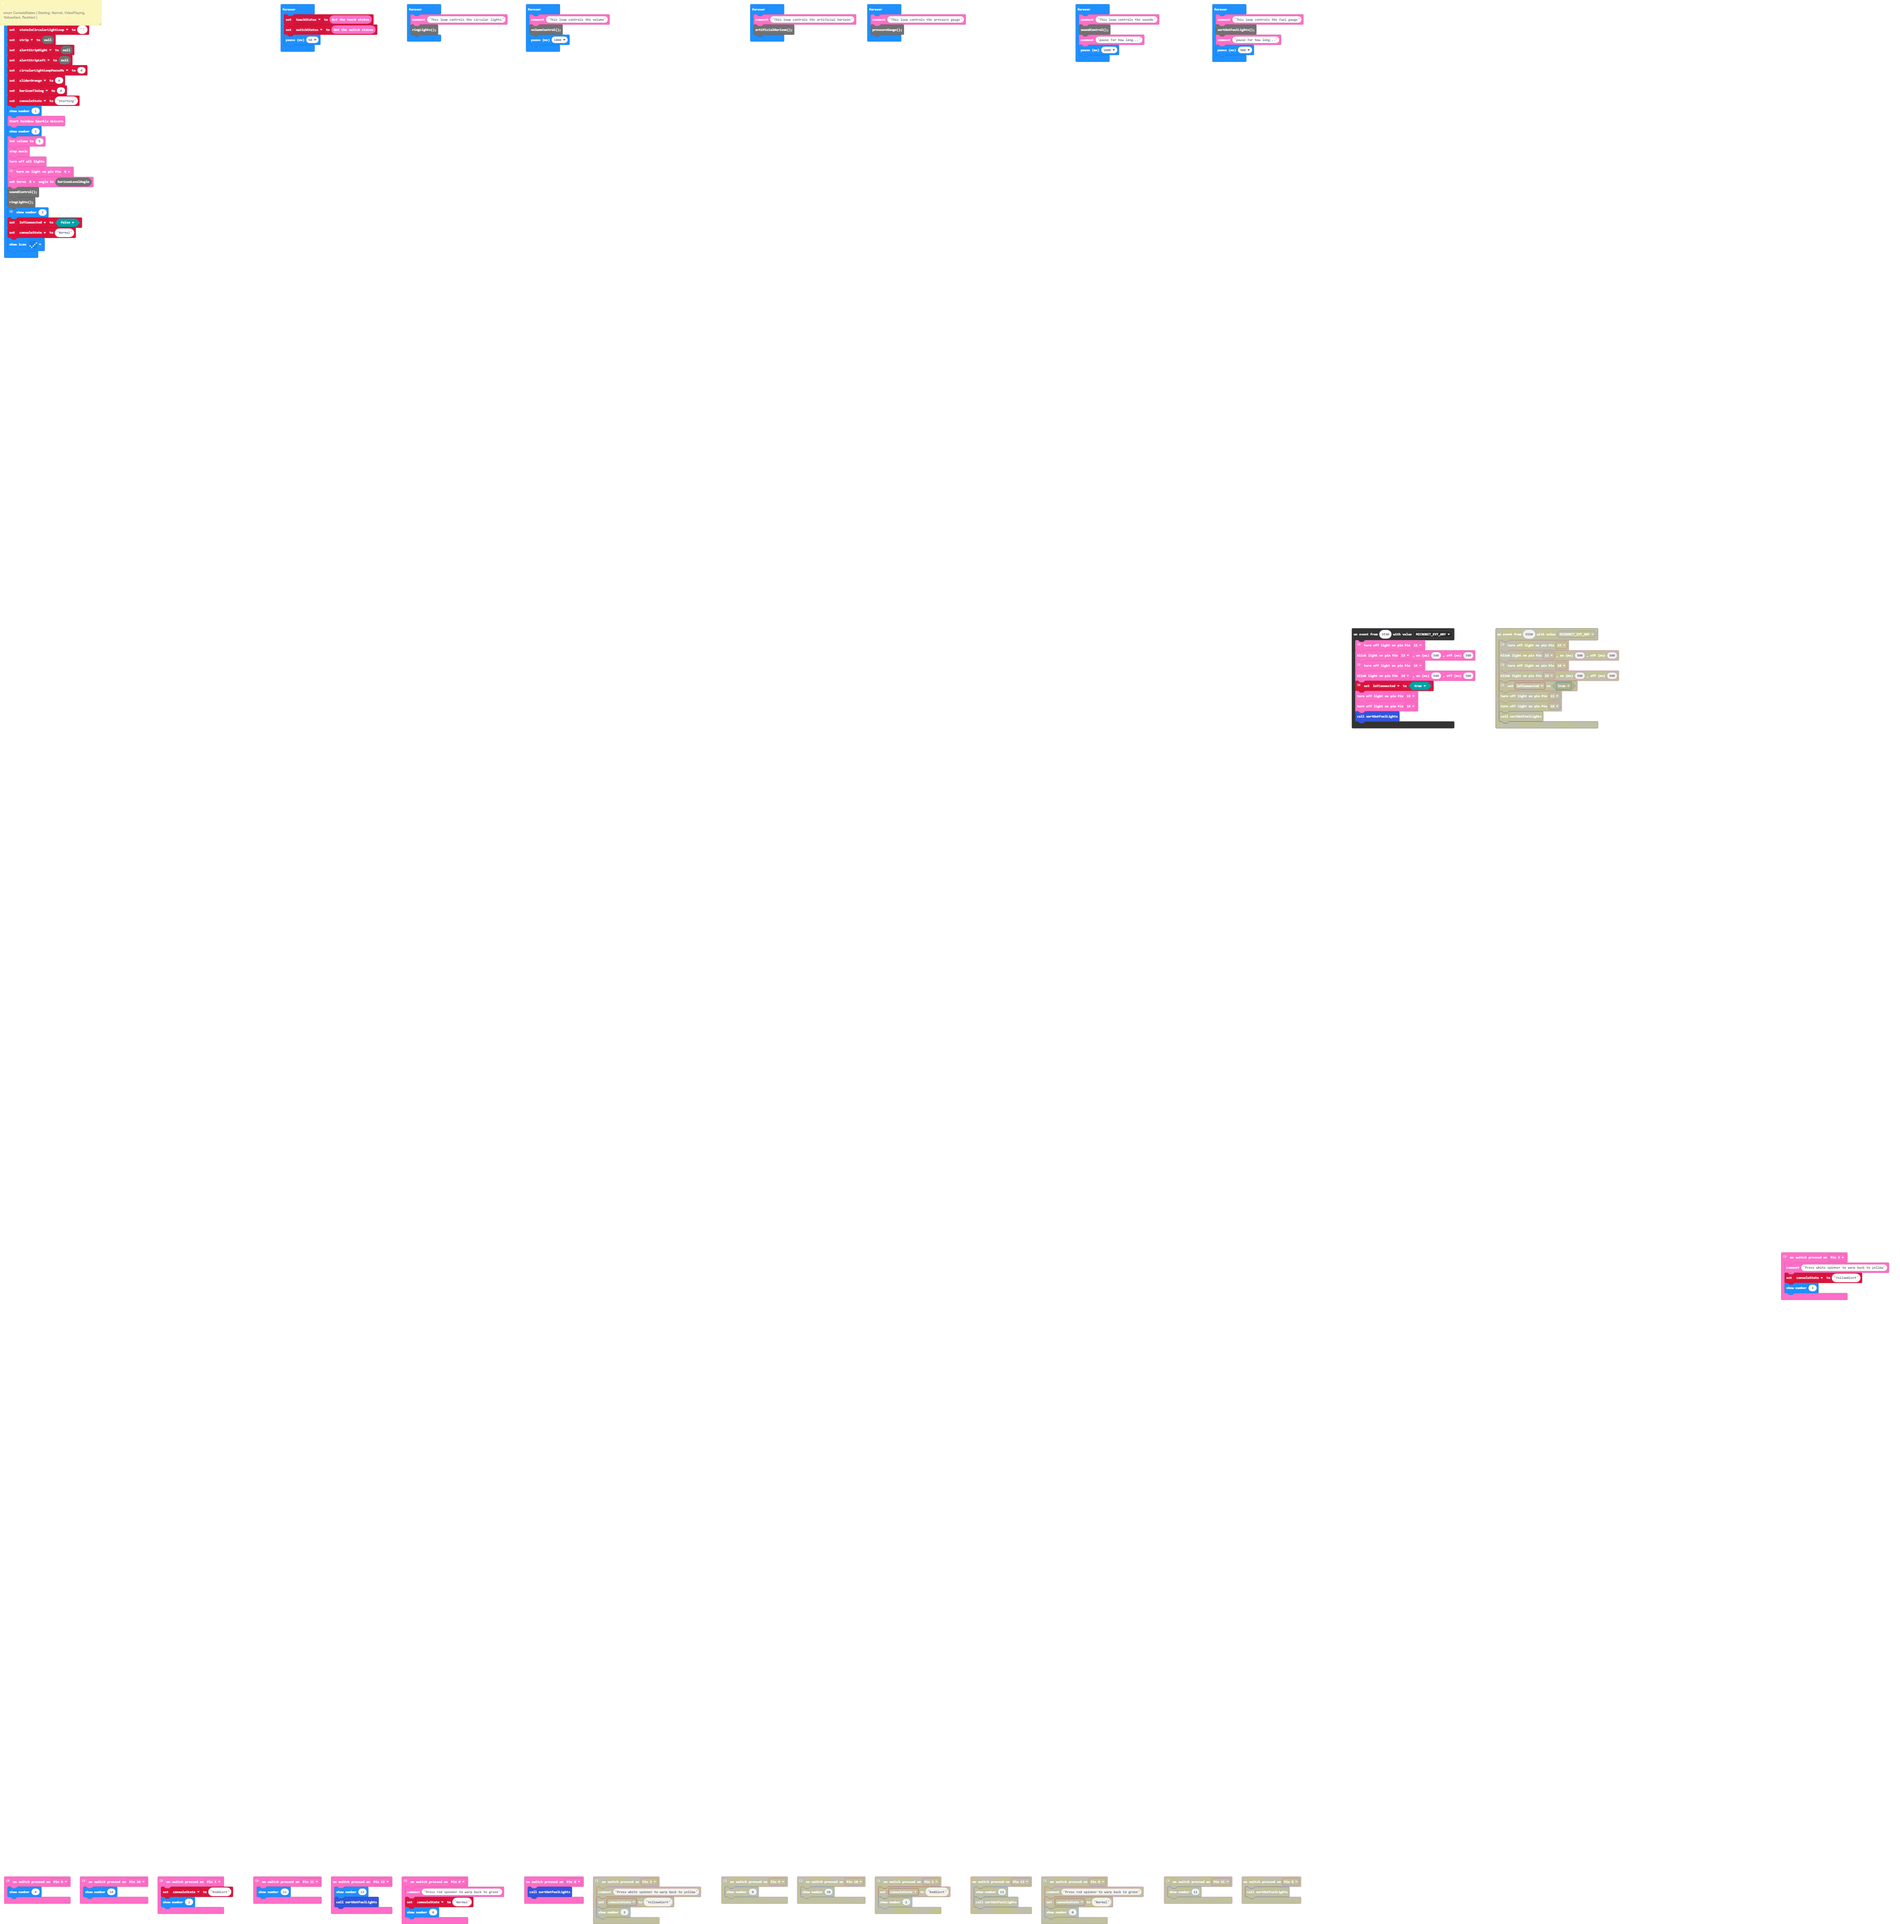
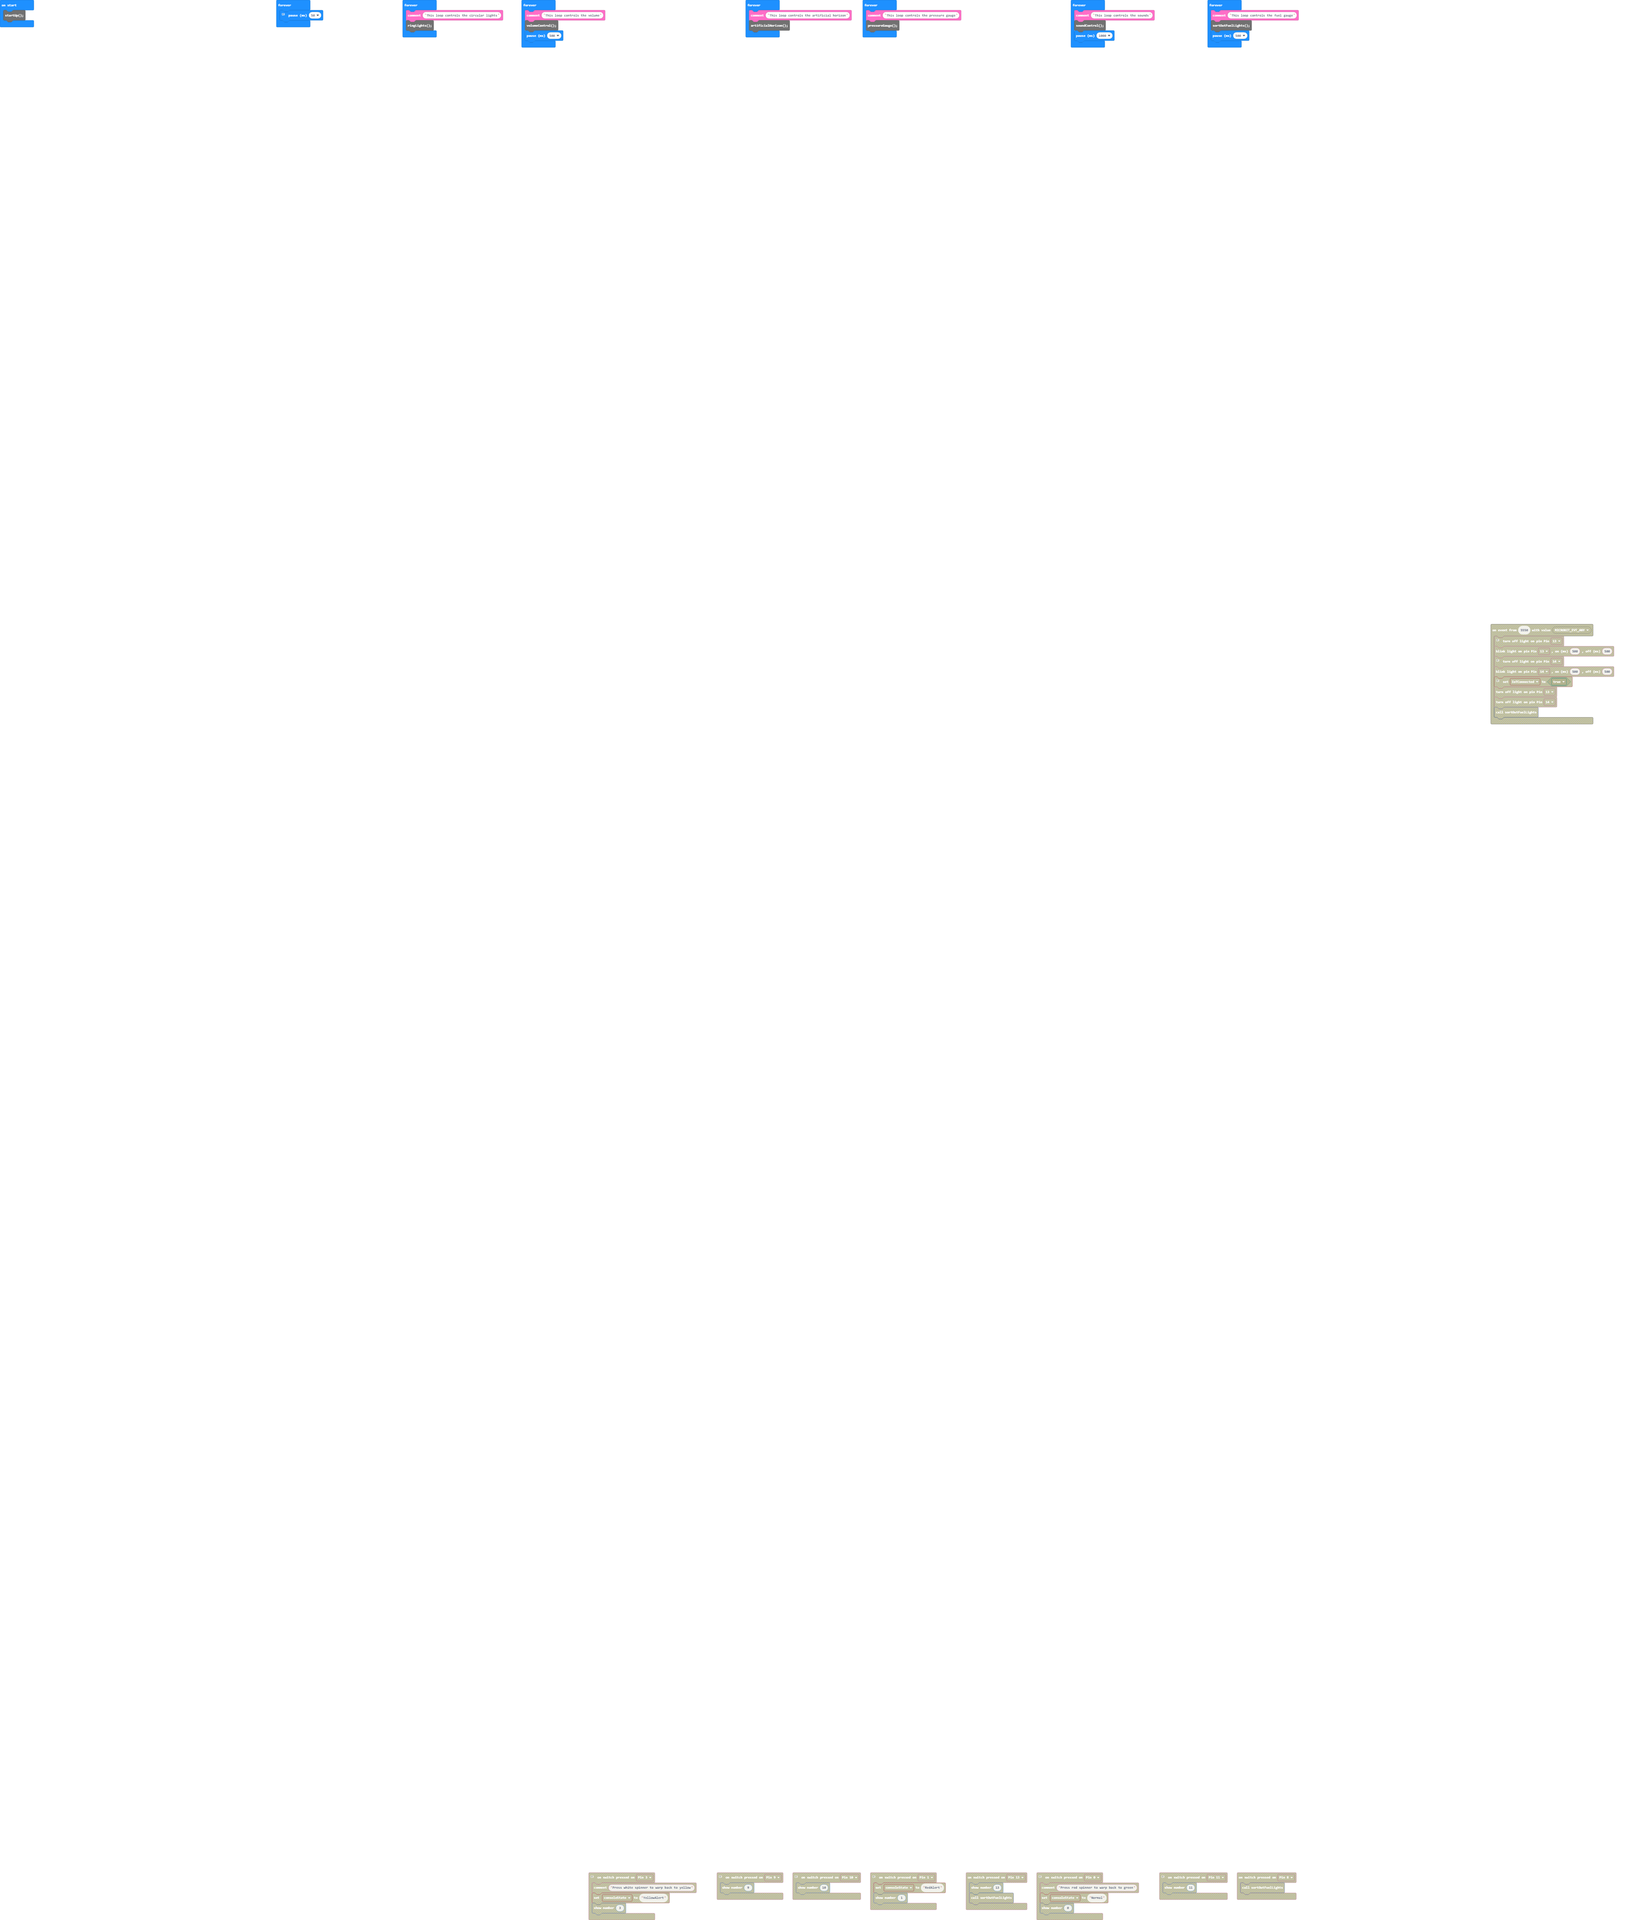
Update main.blocks, main.ts, pressureGauge.ts, ringLights.ts, volume.ts, buttons.ts, start.ts

diff --git a/main.ts b/main.ts
@@ -2,34 +2,41 @@
 startUp();
 
 basic.forever(function () {
-    touchStatus = RainbowSparkleUnicorn.Touch.getTouchStates()
-    switchStatus = RainbowSparkleUnicorn.Switch.getSwitchStates()
-    basic.pause(50)
-})
-basic.forever(function () {
-    RainbowSparkleUnicorn.comment("This loop controls the circular lights")
-    ringLights();
-})
-basic.forever(function () {
     RainbowSparkleUnicorn.comment("This loop controls the volume")
     volumeControl();
-    basic.pause(1000)
+    basic.pause(100)
 })
+
 basic.forever(function () {
     RainbowSparkleUnicorn.comment("This loop controls the artificial horizon")
     artificialHorizon();
 })
-basic.forever(function () {
+
+basic.forever(function() {
     RainbowSparkleUnicorn.comment("This loop controls the pressure gauge")
     pressureGauge();
+    basic.pause(1000);
 })
+
 basic.forever(function () {
     RainbowSparkleUnicorn.comment("This loop controls the sounds")
     soundControl();
     basic.pause(1000)
 })
+
 basic.forever(function () {
     RainbowSparkleUnicorn.comment("This loop controls the fuel gauge")
     sortOutFuelLights();
     basic.pause(500)
+})
+
+basic.forever(function () {
+    //touchStatus = RainbowSparkleUnicorn.Touch.getTouchStates()
+    //switchStatus = RainbowSparkleUnicorn.Switch.getSwitchStates()
+    basic.pause(50)
+})
+
+basic.forever(function () {
+    RainbowSparkleUnicorn.comment("This loop controls the circular lights")
+    ringLights();
 })

diff --git a/volume.ts b/volume.ts
@@ -1,11 +1,33 @@
 // Add your code here
+let volumeMapped = 0
 
-function volumeControl(){
-    sliderOrange = RainbowSparkleUnicorn.Controls.Slider1()
-    // setVolumes()
-    serial.writeValue("sliderOrange", sliderOrange)
-    // RainbowSparkleUnicorn.Sound.setVolume(Math.map(100 - sliderOrange, 0, 100, 0, 30))
-    // music.setVolume(Math.map(sliderOrange, 0, 100, 0, 255))
-
-    
+function volumeControl() {
+    let volume = 1023 - pins.analogReadPin(AnalogPin.P0);
+    let tempVol = Math.round(Math.map(volume, 0, 1023, 0, 30));
+    if (volumeMapped != tempVol) {
+        volumeMapped = tempVol;
+        music.setVolume(volumeMapped);
+        serial.writeValue("vol", volumeMapped);
+    }
 }
+
+// let slider = 0
+// let volume = 0
+// RainbowSparkleUnicorn.start()
+// RainbowSparkleUnicorn.Controls.dial1(128)
+// RainbowSparkleUnicorn.Controls.dial2(128)
+// basic.forever(function () {
+//     let volumeMapped = 0
+//     volume = 1023 - pins.analogReadPin(AnalogPin.P0)
+//     slider = pins.analogReadPin(AnalogPin.P2)
+//     // led.plotBarGraph(
+//     // slider,
+//     // 1023
+//     // )
+//     serial.writeValue("v", volume)
+//     // serial.writeValue("s", slider)
+//     volumeMapped = Math.round(Math.map(volume, 0, 1023, 0, 30))
+//     // basic.showNumber(volumeMapped)
+//     serial.writeValue("vol", volumeMapped)
+//     basic.pause(100);
+// })

diff --git a/pressureGauge.ts b/pressureGauge.ts
@@ -1,12 +1,11 @@
 // Add your code here
 
 function pressureGauge() {
-    if (consoleState == "Normal") {
-        RainbowSparkleUnicorn.comment("232 is 3v on to 0-255 scale")
-        RainbowSparkleUnicorn.Controls.dial1(randint(0, 232))
-        basic.pause(1000)
+
+    if (consoleState == "Normal" || consoleState == "Starting") {
+        RainbowSparkleUnicorn.comment("232 is 3v on to 0-255 scale (3.3v)")
+        RainbowSparkleUnicorn.Controls.dial2(randint(0, 232))
     } else {
-        RainbowSparkleUnicorn.Controls.dial1(0)
-        basic.pause(2000)
+        RainbowSparkleUnicorn.Controls.dial2(0)
     }
 }

diff --git a/start.ts b/start.ts
@@ -1,10 +1,7 @@
 // Add your code here
 
-let switchStatus = ""
-let touchStatus = ""
-let consoleState = ""
-let sliderOrange = 0
 
+let consoleState = ""
 
 function startUp() {
 
@@ -14,8 +11,10 @@ function startUp() {
     basic.showNumber(1)
     RainbowSparkleUnicorn.start()
     basic.showNumber(2)
-    RainbowSparkleUnicorn.Sound.setVolume(5)
-    RainbowSparkleUnicorn.Sound.stop()
+
+    RainbowSparkleUnicorn.Sound.stop();
+    volumeControl();
+
     RainbowSparkleUnicorn.Light.turnAllOff()
     RainbowSparkleUnicorn.Movement.setServoAngle(Servo.P8, horizonLevelAngle)
 

diff --git a/ringLights.ts b/ringLights.ts
@@ -1,6 +1,6 @@
 // Add your code here
 
-let circularLightLoopPauseMs = 0
+let circularLightLoopPauseMs = 1000
 let alertStripLeft: neopixel.Strip = null
 let alertStripRight: neopixel.Strip = null
 let strip: neopixel.Strip = null
@@ -41,8 +41,6 @@ function ringLights() {
 
         strip.show()
     }
-
-    circularLightLoopPauseMs = 1000
 
     RainbowSparkleUnicorn.comment("Need to check for a transition, so we can set up the lights")
 

diff --git a/buttons.ts b/buttons.ts
@@ -1,3 +1,7 @@
+
+let switchStatus = ""
+let touchStatus = ""
+
 // RainbowSparkleUnicorn.IoT.sendMQTTMessage("spaceship-console/buttons", "Green Button")
 RainbowSparkleUnicorn.Switch.onSwitchPressed(switchPins.P10, function () {
     basic.showNumber(10)
